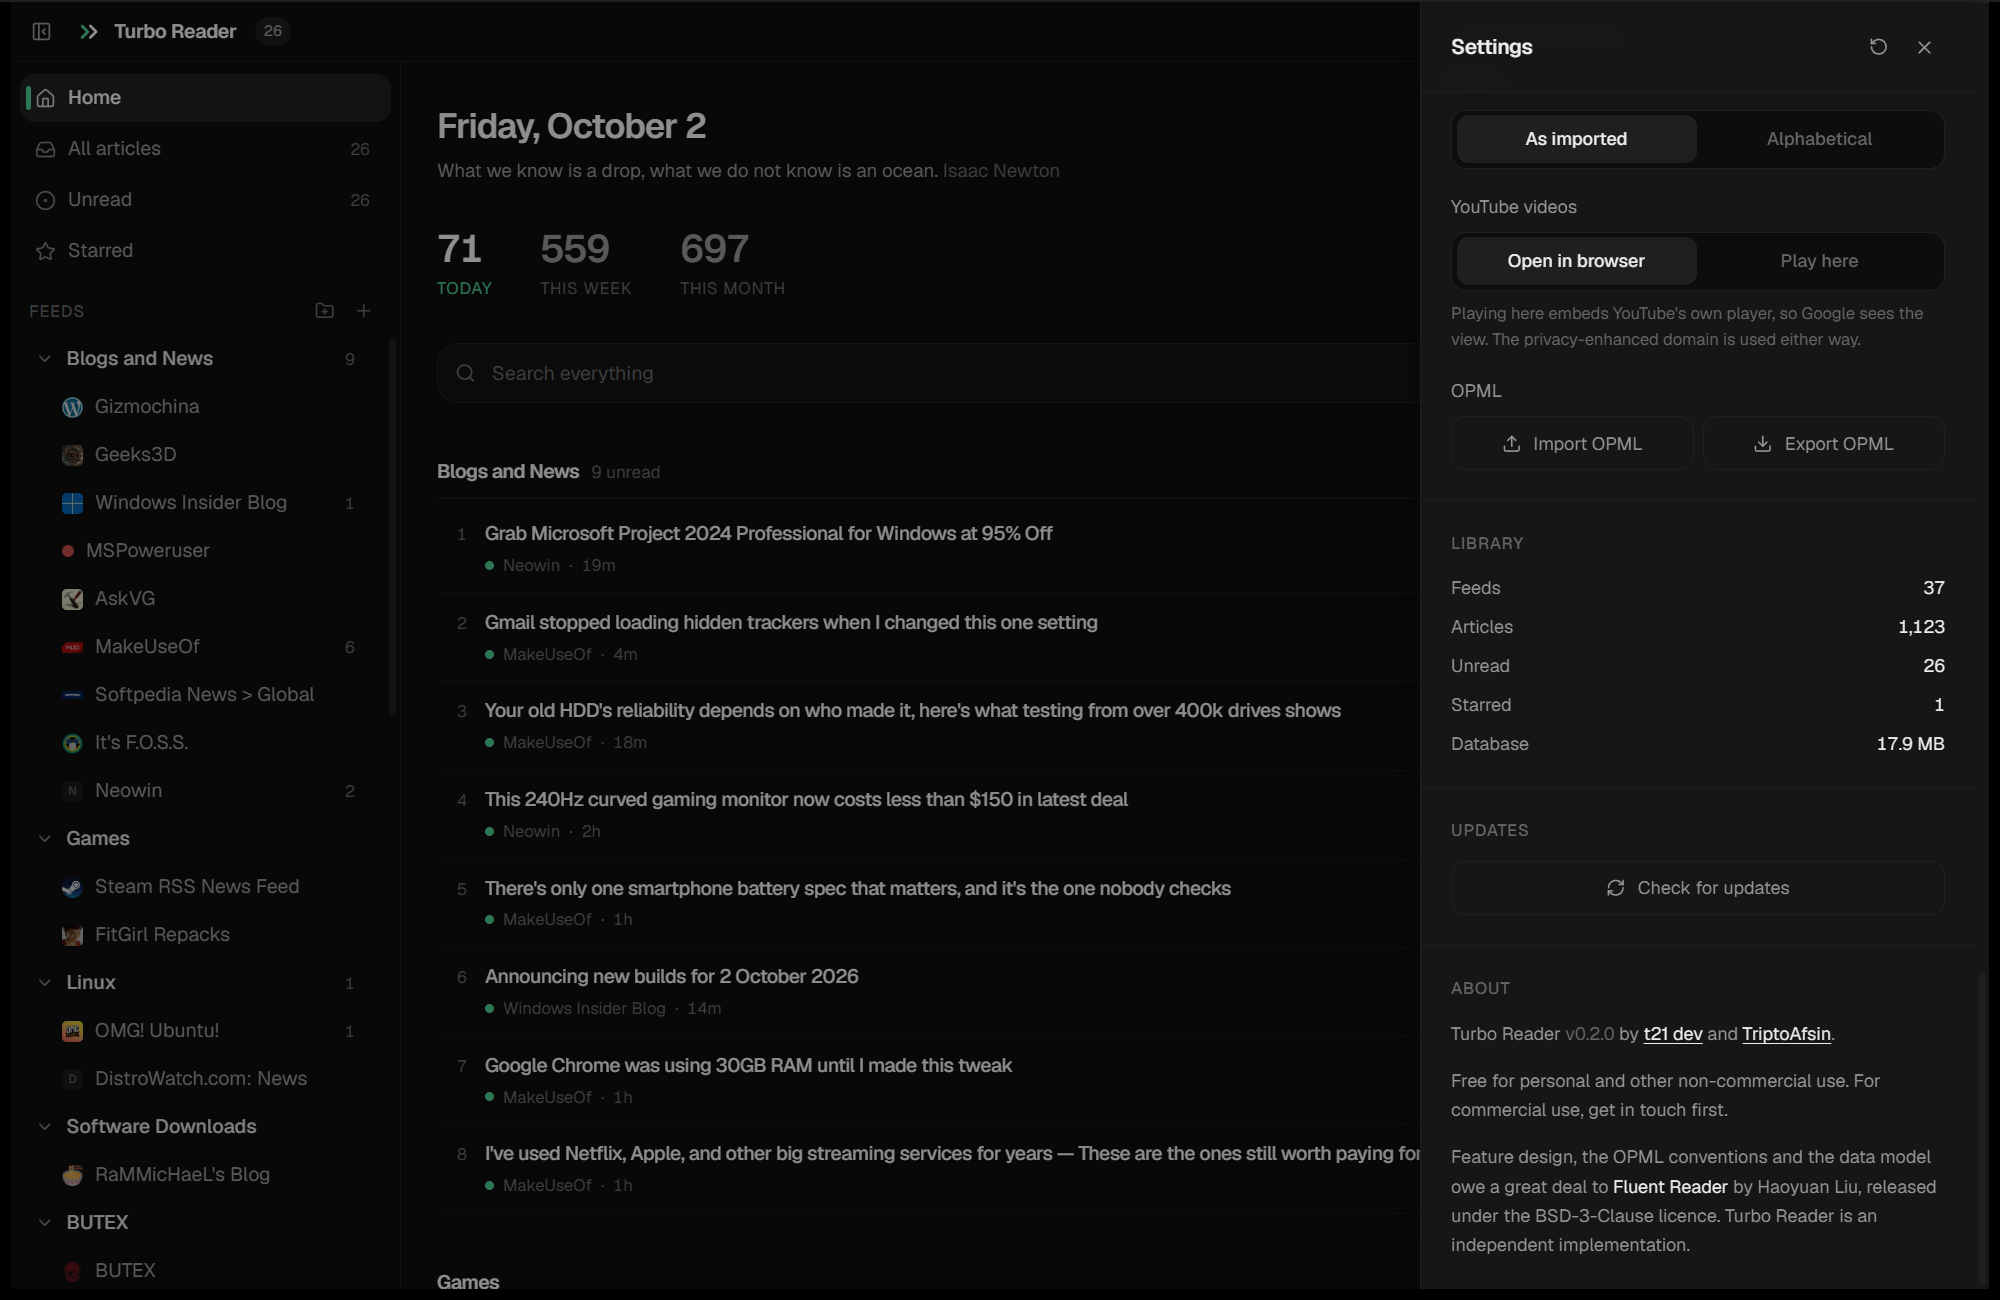
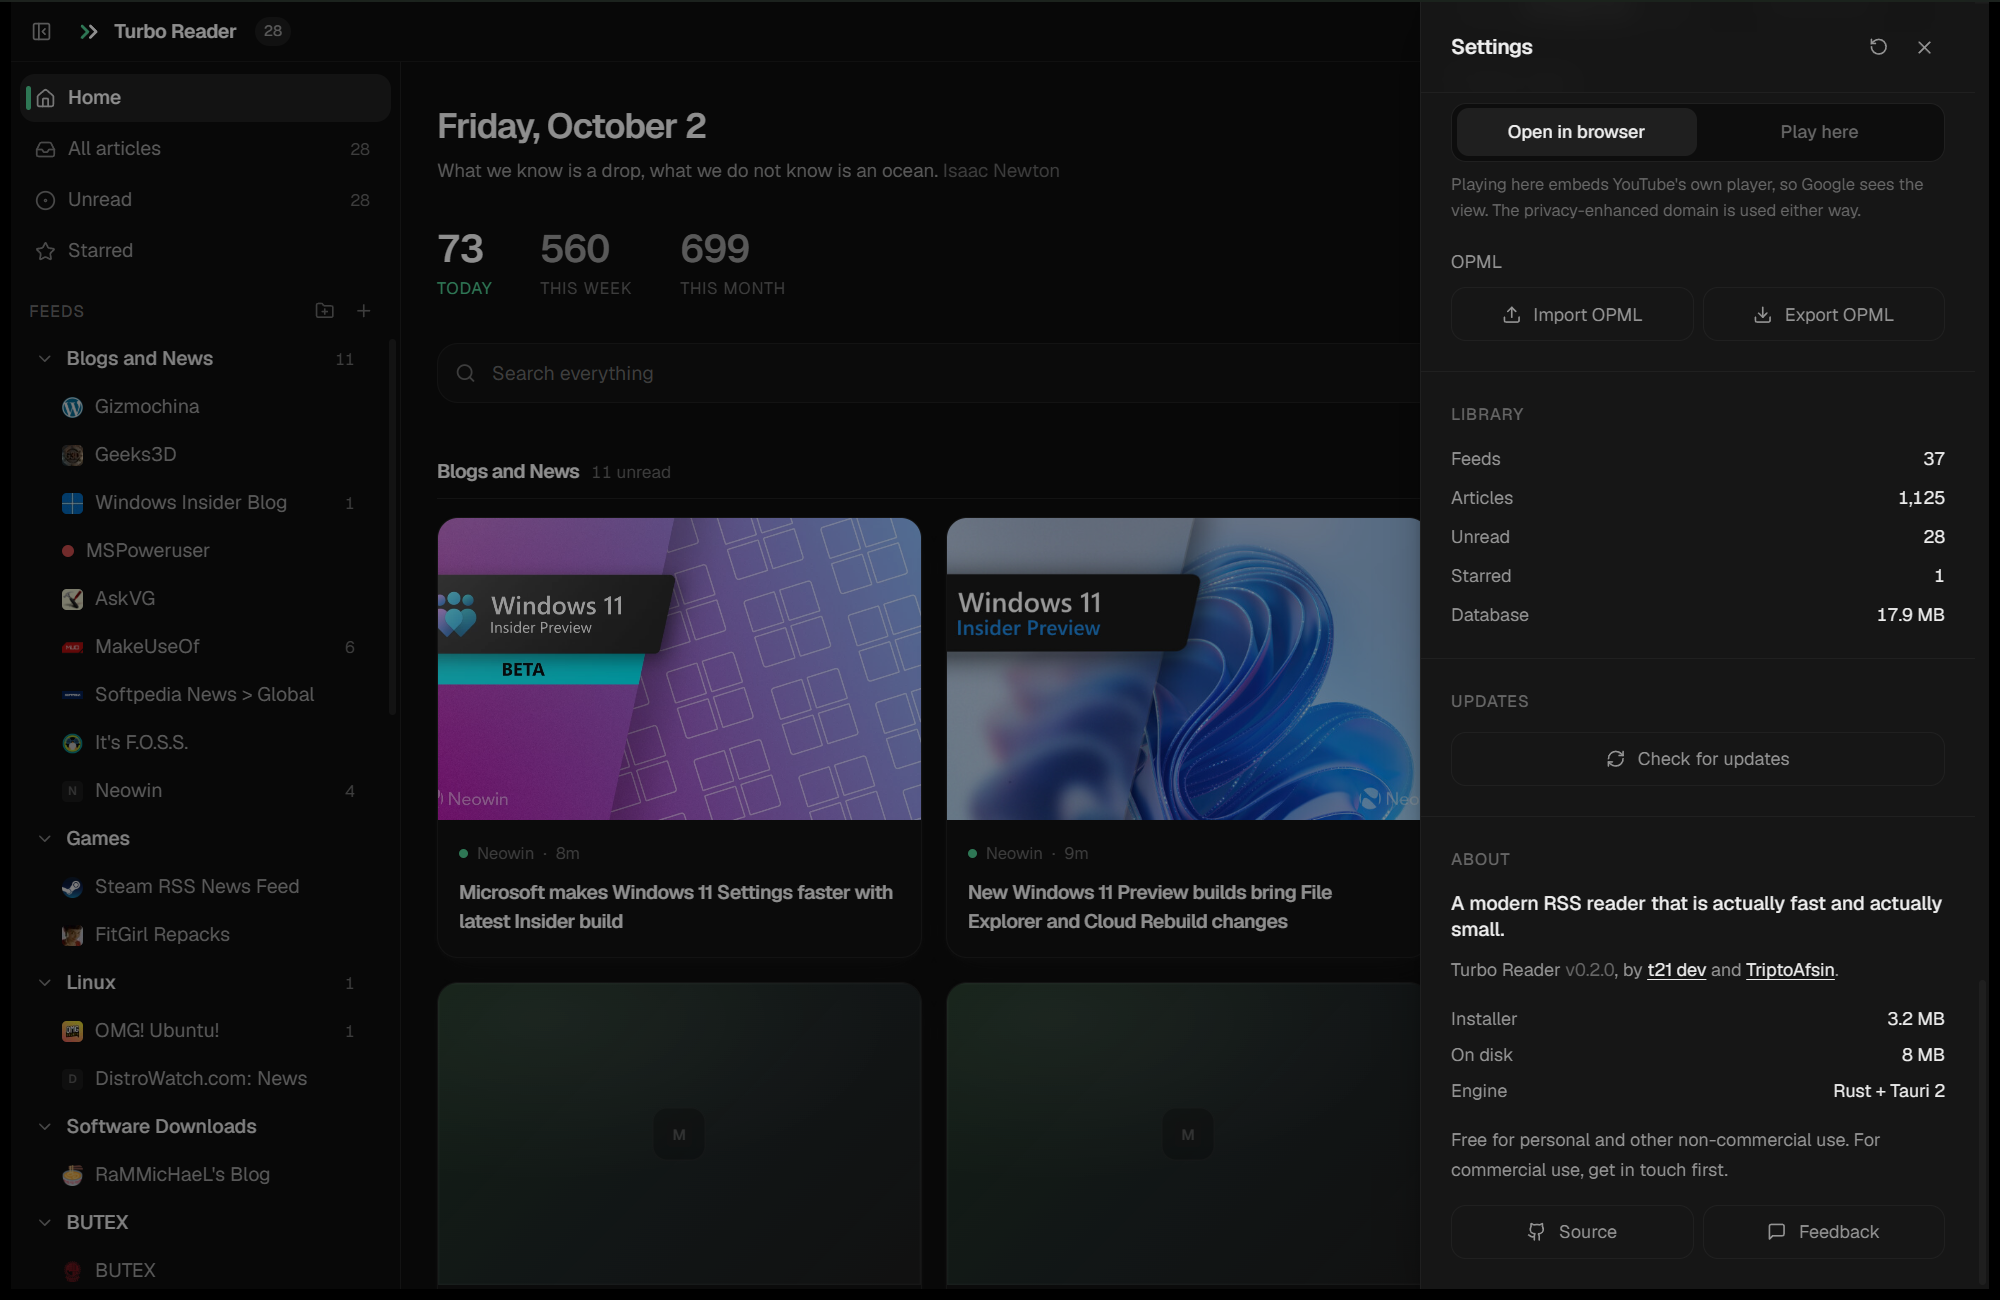
docs: lead with the product instead of a comparison
The README named another reader nine times and gave it a section, a column in
the size table and a paragraph in the architecture notes. That is a lot of
space spent on someone else's app, and it framed this one as a reaction rather
than a product.

It now opens on what Turbo Reader is: a modern reader that is fast and small,
with a home page instead of a backlog, local ranking that needs no account,
five layouts per category, and a sanitiser that means no article can take the
window down. The size table carries our own measured numbers and no competitor
column, because 3.2 MB and 41 MB stand on their own. One line of thanks
remains in Attribution, which is the right amount.

The in-app About no longer mentions it at all. It leads with the one line
pitch, the authors, the size figures, the licence, and buttons for source and
feedback.

Claude-Session: https://claude.ai/code/session_01VqregQVGWzrjN93fSdwC9h

diff --git a/src/components/SettingsPanel.tsx b/src/components/SettingsPanel.tsx
@@ -10,6 +10,8 @@ import {
   RefreshCw,
   CheckCircle2,
   ArrowUpCircle,
+  Github,
+  MessageSquare,
 } from "lucide-react"
 import { open as openDialog, save as saveDialog } from "@tauri-apps/plugin-dialog"
 import { openUrl } from "@tauri-apps/plugin-opener"
@@ -521,8 +523,11 @@ export function SettingsPanel({
         </Section>
 
         <Section title="About">
-          <p className="text-[12px] leading-relaxed text-muted-foreground">
-            Turbo Reader <span className="tabular text-subtle">v0.2.0</span> by{" "}
+          <p className="text-[13px] font-medium leading-snug text-foreground">
+            A modern RSS reader that is actually fast and actually small.
+          </p>
+          <p className="mt-2 text-[12px] leading-relaxed text-muted-foreground">
+            Turbo Reader <span className="tabular text-subtle">v0.2.0</span>, by{" "}
             <button
               type="button"
               onClick={() => void openUrl("https://github.com/t21dev")}
@@ -540,15 +545,45 @@ export function SettingsPanel({
             </button>
             .
           </p>
-          <p className="mt-3 text-[12px] leading-relaxed text-muted-foreground">
+
+          <dl className="mt-3.5 grid grid-cols-2 gap-y-1.5 text-[12px]">
+            {[
+              ["Installer", "3.2 MB"],
+              ["On disk", "8 MB"],
+              ["Engine", "Rust + Tauri 2"],
+            ].map(([k, v]) => (
+              <div key={k} className="contents">
+                <dt className="text-muted-foreground">{k}</dt>
+                <dd className="tabular text-right text-foreground">{v}</dd>
+              </div>
+            ))}
+          </dl>
+
+          <p className="mt-3.5 text-[12px] leading-relaxed text-muted-foreground">
             Free for personal and other non-commercial use. For commercial use, get in touch
             first.
           </p>
-          <p className="mt-3 text-[12px] leading-relaxed text-muted-foreground">
-            Feature design, the OPML conventions and the data model owe a great deal to{" "}
-            <span className="text-foreground">Fluent Reader</span> by Haoyuan Liu, released under
-            the BSD-3-Clause licence. Turbo Reader is an independent implementation.
-          </p>
+
+          <div className="mt-3.5 grid grid-cols-2 gap-1.5">
+            <button
+              type="button"
+              onClick={() => void openUrl("https://github.com/t21dev/turbo-reader")}
+              className="row flex h-9 items-center justify-center gap-2 border border-border text-[12px] text-muted-foreground hover:bg-secondary hover:text-foreground"
+            >
+              <Github size={13} />
+              Source
+            </button>
+            <button
+              type="button"
+              onClick={() =>
+                void openUrl("https://github.com/t21dev/turbo-reader/issues/new")
+              }
+              className="row flex h-9 items-center justify-center gap-2 border border-border text-[12px] text-muted-foreground hover:bg-secondary hover:text-foreground"
+            >
+              <MessageSquare size={13} />
+              Feedback
+            </button>
+          </div>
         </Section>
       </div>
     </div>

diff --git a/README.md b/README.md
@@ -4,9 +4,9 @@
 
 # Turbo Reader
 
-**A fast, modern RSS reader.** Rust core, React shell, built with Tauri 2.
+**A modern RSS reader that is actually fast and actually small.**
 
-<sub>Feeds are fetched, parsed and sanitised in Rust, outside the UI, so a malformed article cannot take the window down with it.</sub>
+<sub>A 3 MB installer that opens in under a second and sits at 41 MB of memory with a thousand articles loaded. Rust core, React shell, built with Tauri 2.</sub>
 
 <br />
 
@@ -38,13 +38,27 @@ By **[t21 dev](https://github.com/t21dev)** and **[TriptoAfsin](https://github.c
 
 ---
 
-## Why this exists
+## What makes it different
 
-I used [Fluent Reader](https://github.com/yang991178/fluent-reader) for years and it is a genuinely good app. But it has been unmaintained since 1.2.2, and over six weeks it bricked itself three separate times on my machine. Blank window, no error, blank again on every relaunch.
+**A home page, not a backlog.** Most readers open on everything you have not
+read, which is the same question again rather than an answer. Turbo Reader
+opens on what happened since you last looked: counts for today, this week and
+this month, your pinned feeds first, and a section per category.
 
-The cause turned out to be structural. Fluent Reader parses raw feed HTML inside the renderer. An article containing the text `<geolocation>` makes Blink instantiate an element with that name, and the renderer process is terminated outright. It is `STATUS_BREAKPOINT`, not an exception, so no `try/catch` and no React error boundary can contain it. Because articles are persisted, the crash repeated on every launch until I deleted the article database by hand. Three different web-dev feeds carried that story as the proposed `<geolocation>` HTML element made the rounds.
+**Ranking that needs no account and no API key.** Freshness, what you have
+read, which feeds you actually open, the feeds you pinned, and two keyword
+lists you write yourself. It runs locally, makes no network calls, and every
+card tells you why it is there.
 
-Turbo Reader is built so that cannot happen. The webview never receives feed HTML that has not been through an allowlist sanitiser in Rust first, and there is a test for exactly that case.
+**Five layouts, per category.** Cards, mosaic, magazine, compact or headlines,
+chosen per folder or left on auto, which decides from whether that folder's
+feeds carry images rather than guessing.
+
+**It cannot be taken down by an article.** Feed HTML is fetched, parsed and run
+through an allowlist sanitiser in Rust before the webview ever sees it. Browser
+engines terminate the renderer outright on certain malformed markup, and that
+is not an exception any `try/catch` or error boundary can catch, so the only
+real defence is never handing it over in the first place.
 
 ```rust
 #[test]
@@ -102,11 +116,13 @@ fn geolocation_cannot_survive_sanitising() {
 - Per-feed retention limits
 - Duplicate collapsing across feeds, keyed on the destination URL with tracking parameters stripped, so a story syndicated through three feeds shows up once
 
-## Built on the community's wishlist
+## Long-requested, finally shipped
 
-The feature set is not guesswork. These are the highest-voted open requests on Fluent Reader, and where each one stands here.
+The feature set is not guesswork. These are the most-upvoted open requests in
+the desktop RSS community, several of them open for years, and where each one
+stands here.
 
-| Fluent Reader issue | Votes | Status |
+| Request | Votes | Status |
 | --- | --- | --- |
 | [#246](https://github.com/yang991178/fluent-reader/issues/246), [#554](https://github.com/yang991178/fluent-reader/issues/554) Sort oldest to newest | 8, 4 | Shipped |
 | [#144](https://github.com/yang991178/fluent-reader/issues/144), [#334](https://github.com/yang991178/fluent-reader/issues/334), [#533](https://github.com/yang991178/fluent-reader/issues/533) Hide duplicate articles | 8, 7, 3 | Shipped |
@@ -125,7 +141,10 @@ The feature set is not guesswork. These are the highest-voted open requests on F
 | [#69](https://github.com/yang991178/fluent-reader/issues/69) Podcast feeds | 3 | Planned |
 | [#4](https://github.com/yang991178/fluent-reader/issues/4), [#23](https://github.com/yang991178/fluent-reader/issues/23) Feedly and sync services | 87, 39 | Under consideration |
 
-Sync services (Feedly, Fever, the Google Reader API, Miniflux, Nextcloud, TinyTinyRSS) are the most requested feature by a wide margin and also the largest body of work. They are out of scope for 0.1 rather than half-built.
+Sync (the Google Reader API, Fever, Miniflux, Nextcloud, Feedly) is the most
+requested feature by a wide margin and also the largest body of work. It is out
+of scope rather than half built, because a sync that loses your read state once
+is worse than none at all.
 
 ## Architecture
 
@@ -145,7 +164,7 @@ src/
 
 Two choices worth explaining.
 
-**SQLite instead of an in-memory store.** Fluent Reader keeps its whole article store in lovefield-on-IndexedDB, which loads the entire database into the renderer at startup. That is why it slows down past roughly 100 MB. Here the data stays in SQLite, queries are paged, and search goes through FTS5.
+**SQLite instead of an in-memory store.** Articles stay on disk, queries are paged, and search goes through FTS5, so a library of a hundred thousand articles costs the same at startup as a library of ten.
 
 **Bounded-concurrency fetching.** Refresh polls up to 12 feeds at once on a Tokio semaphore. Unbounded would hammer the connection pool. Serial would be slow.
 
@@ -162,30 +181,28 @@ You need Rust (stable) and the [Tauri 2 prerequisites](https://v2.tauri.app/star
 
 ## Attribution
 
-Turbo Reader is an independent implementation and contains no Fluent Reader code.
-
-It does owe Fluent Reader a great deal in feature design, the OPML conventions, the shape of the data model, and the thinking behind its filter and rules system. [Fluent Reader](https://github.com/yang991178/fluent-reader) is by Haoyuan Liu, released under the BSD-3-Clause licence. If you want a mature reader with sync-service support today, use it.
+Turbo Reader is an independent implementation. Thanks to
+[Fluent Reader](https://github.com/yang991178/fluent-reader) by Haoyuan Liu,
+whose feature design informed parts of this one.
 
 Built with [Tauri](https://tauri.app), [feed-rs](https://github.com/feed-rs/feed-rs), [ammonia](https://github.com/rust-ammonia/ammonia) and [rusqlite](https://github.com/rusqlite/rusqlite). Type is [Geist](https://vercel.com/font).
 
-## Size and memory
+## Fast and small
 
-Both apps loaded with the same 37 feeds and around a thousand articles.
+| | |
+| --- | --- |
+| Windows installer | **3.2 MB** |
+| Installed on disk | **8 MB** |
+| Memory, 37 feeds and ~1,000 articles | **41 MB, one process** |
+| Cold start to usable | **under a second** |
 
-| | Fluent Reader 1.2.2 | Turbo Reader 0.1.0 |
-| --- | --- | --- |
-| Windows installer | 95.4 MB | **3.2 MB** |
-| Installed on disk | 349.0 MB | **8.0 MB** |
-| Main binary | 212.5 MB | **8.0 MB** |
-| Memory, running | 526 MB across 4 processes | **41 MB in 1 process** |
+Measured, not estimated, on one Windows machine.
 
-The installer figures are the published x64 releases. The rest was measured on
-the same Windows machine with both apps open on the same library.
-
-The gap is structural rather than clever. Electron ships a browser; Tauri uses
-the one Windows, macOS and Linux already have. And the article store stays in
-SQLite instead of being loaded into the renderer, which is what kept Fluent
-Reader's memory climbing with the size of the library.
+Two decisions buy most of that. Tauri uses the webview the operating system
+already ships instead of bundling a second copy of a browser, and articles stay
+in SQLite with paged queries and an FTS5 index rather than being loaded into
+the renderer at startup, so memory does not climb with the size of your
+library.
 
 ## What is coming
 
